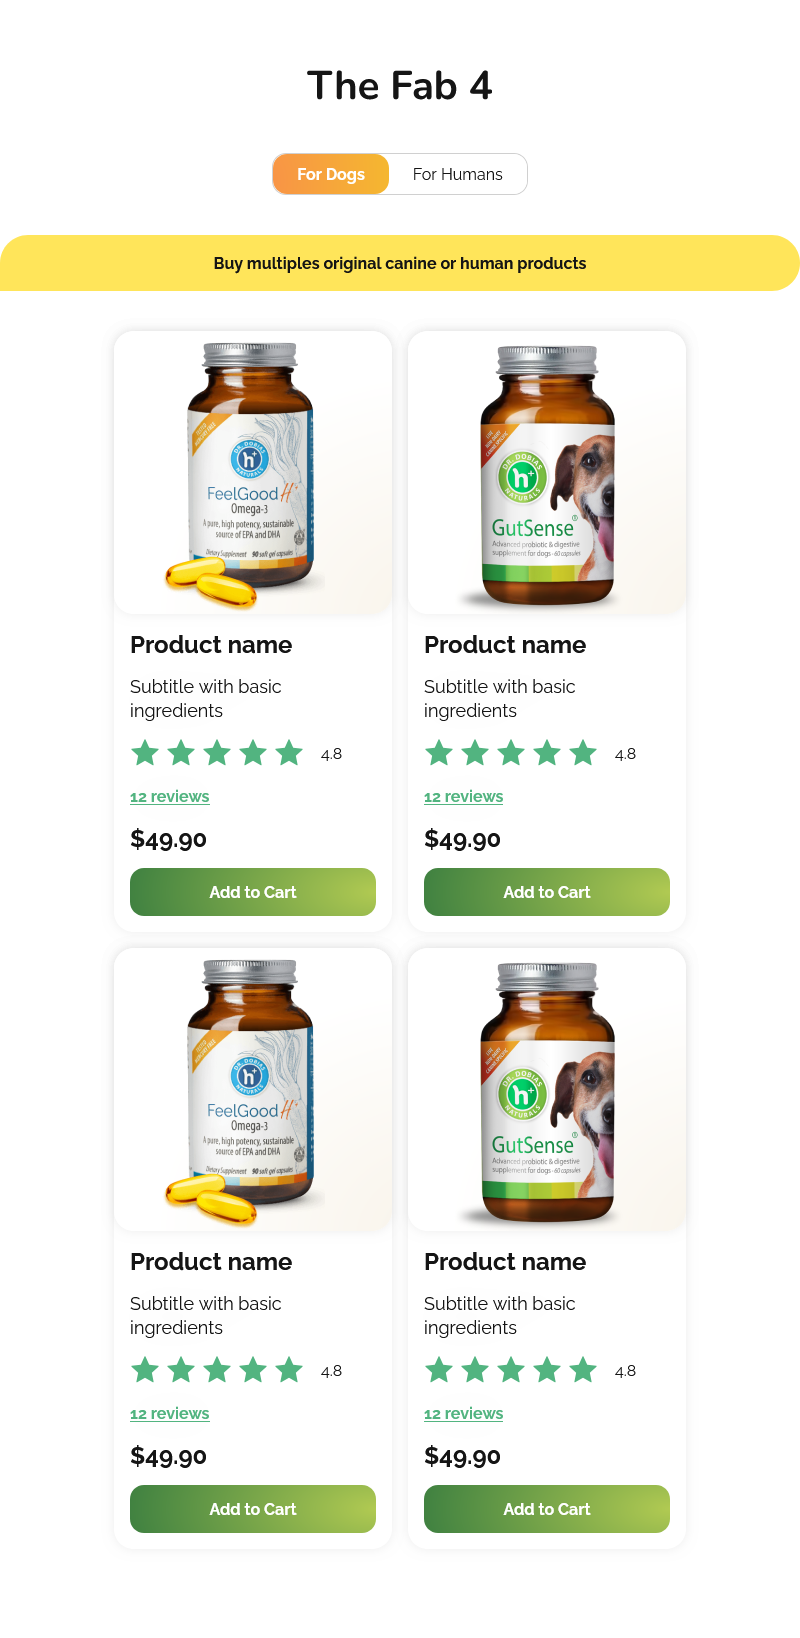
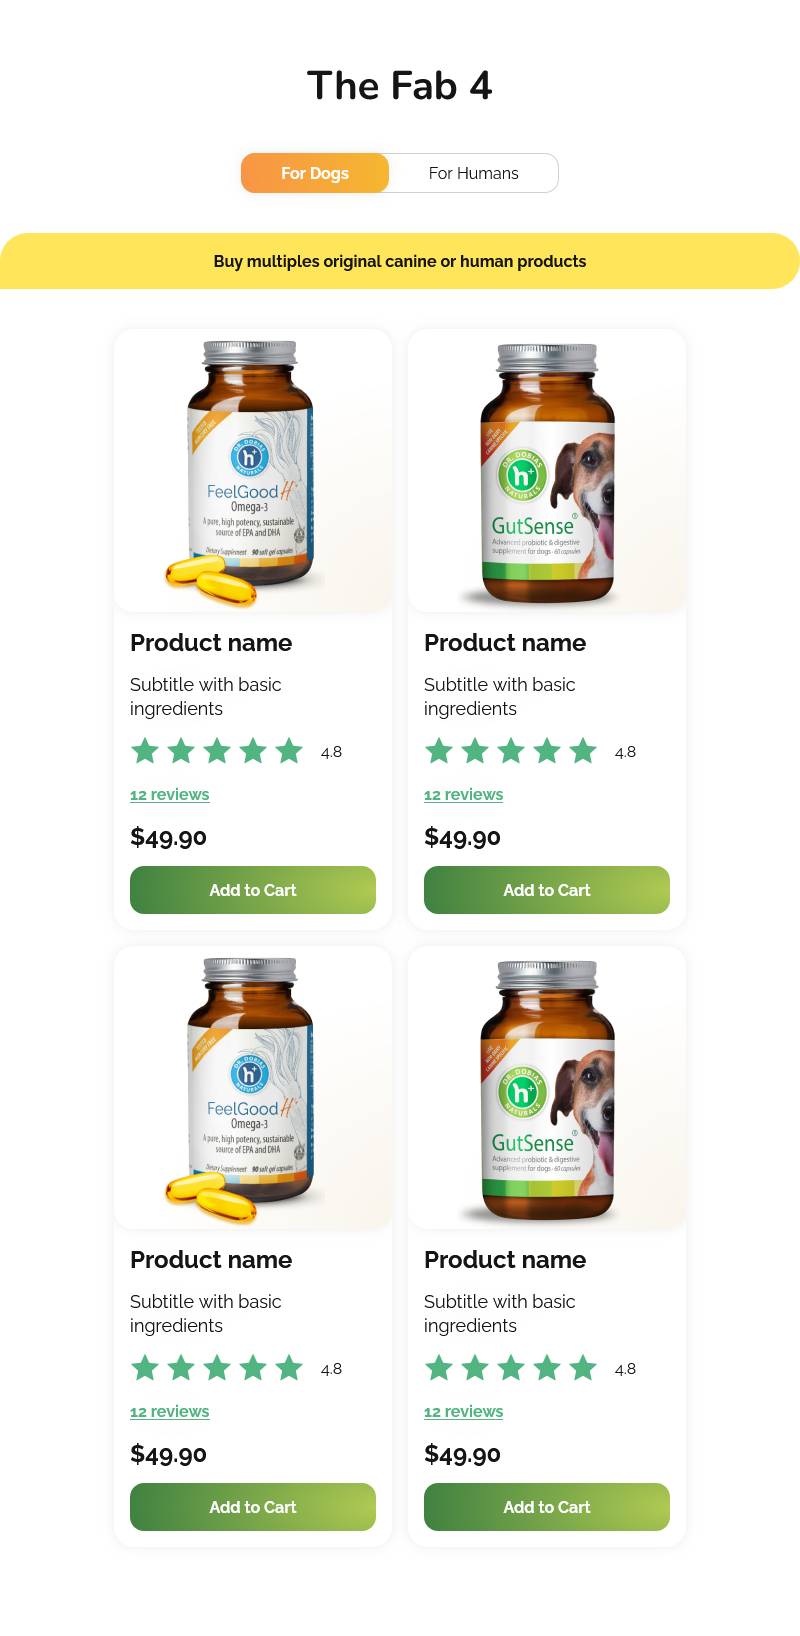
responsiveness update, screenshots update

diff --git a/frontend/src/components/Header.tsx b/frontend/src/components/Header.tsx
@@ -3,7 +3,7 @@ import Heading from './ui/Heading';
 
 const Header = () => {
   return (
-    <header className="flex flex-col items-center gap-10 mt-[58px]">
+    <header className="flex flex-col items-center gap-10 px-4 sm:px-0 mt-[58px]">
       <Heading title="The Fab 4" type="h1" variant="transparent" />
       <ProductFilter />
       <Heading title="Buy multiples original canine or human products" type="h2" variant="yellow" />

diff --git a/frontend/src/components/ui/Button.tsx b/frontend/src/components/ui/Button.tsx
@@ -7,7 +7,7 @@ interface ButtonProps {
 }
 
 const sizeClasses = {
-  small: 'h-full py-2 px-10',
+  small: 'h-full py-2 px-6 sm:px-10',
   large: 'w-full py-3.5',
 };
 
